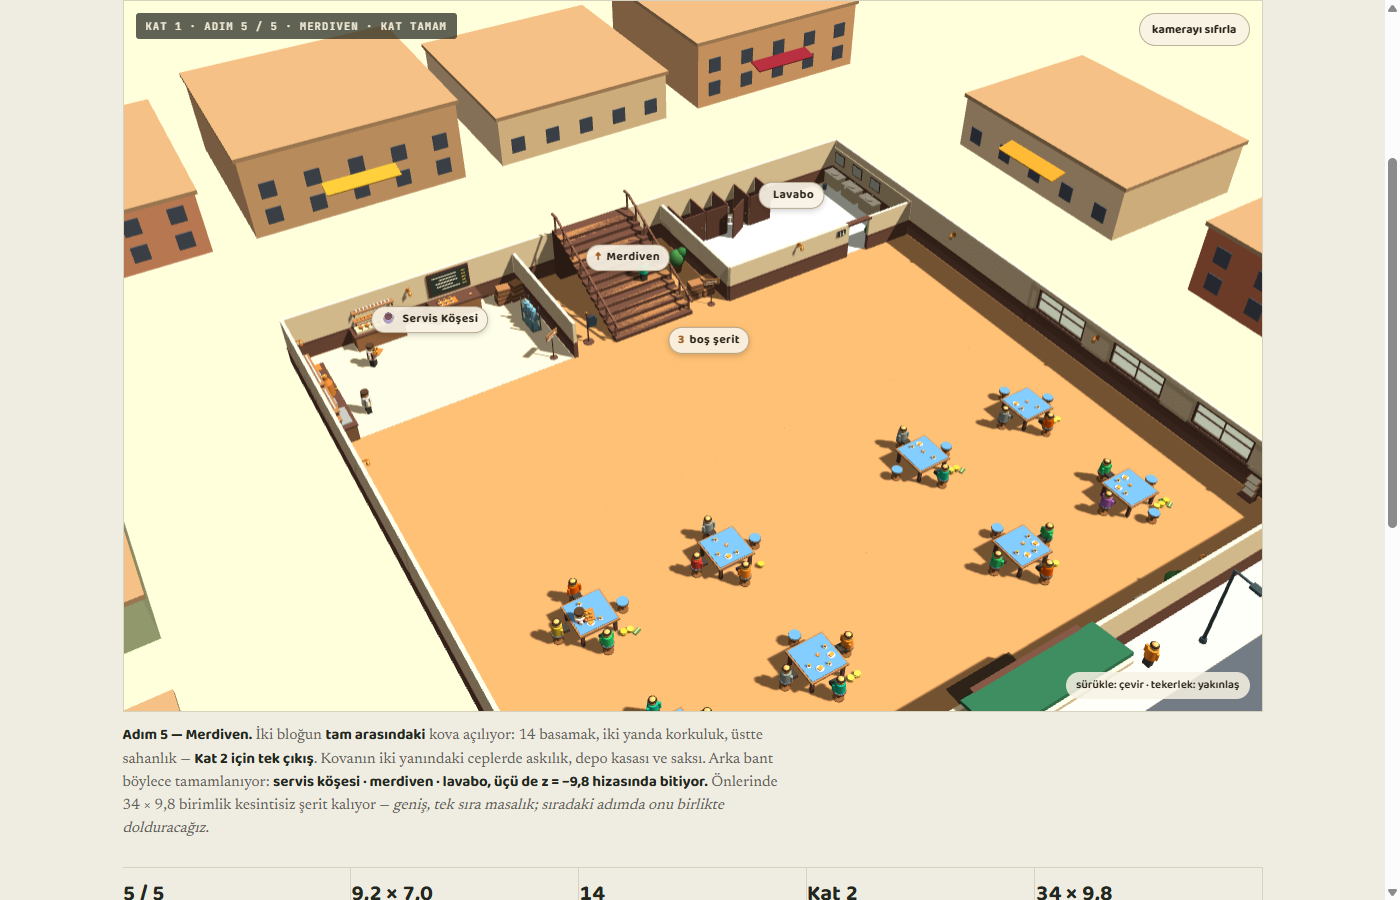
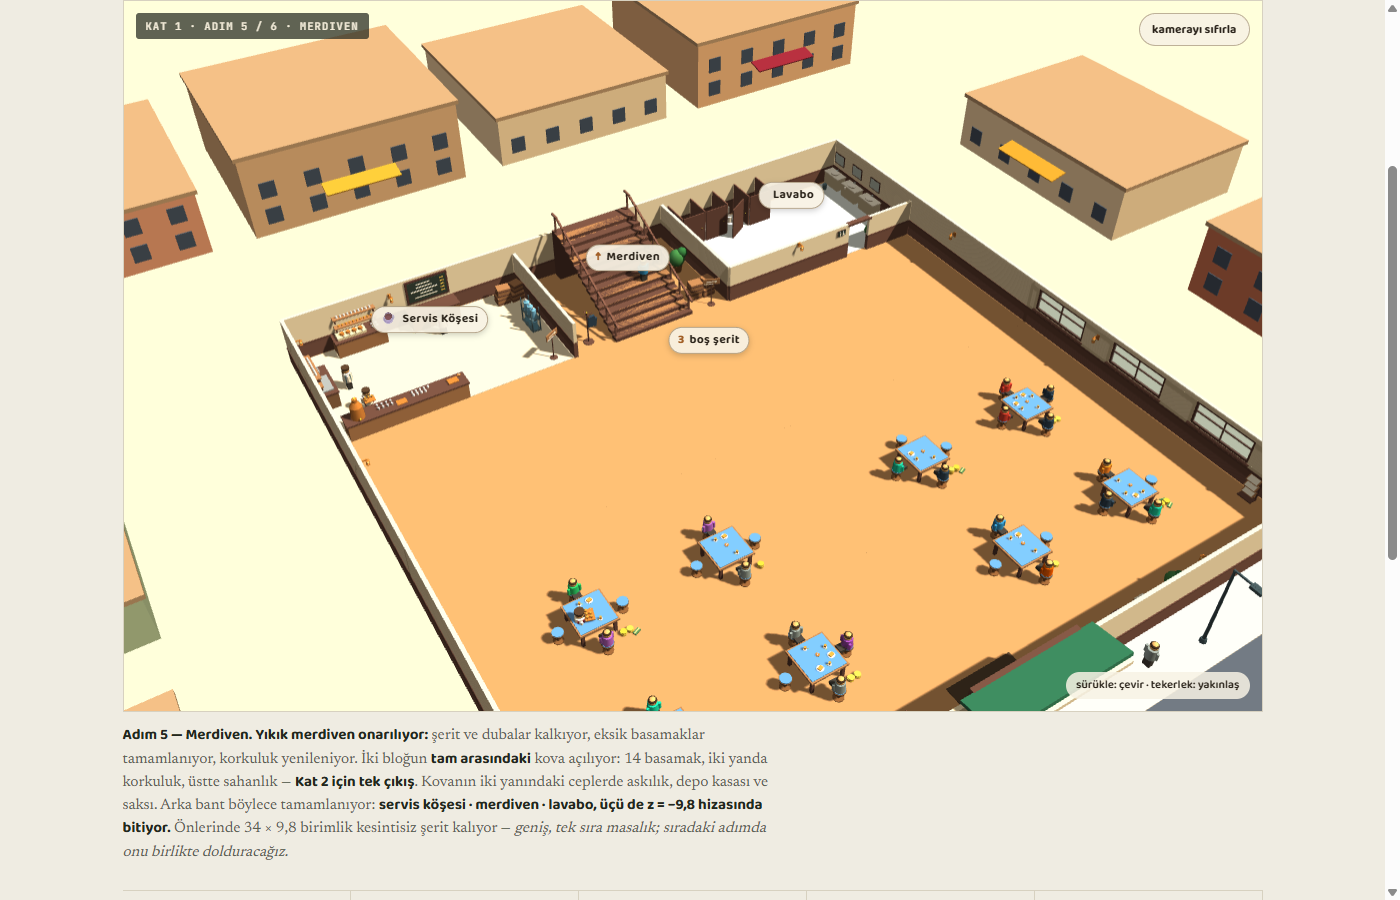
Maket v13: merdiven perdesiz, yikik halde + uyari seridi
Kullanici: "merdiven merdiven haliyle yikik dokuk dursun ve onunde de serit
olsun, bu sekilde yeni bir oda izlenimi oluyor o da hos degil."

- Merdiven kovasindaki tahta perde kaldirildi. Yerine merdivenin kendisi yikik
  halde duruyor: 4 basamakta tahta yok, birkacinda yarim, korkuluktan uc dikme
  kalmis, basamaklarda moloz, yana dusmus kalas ve kova.
- Onunde uyariSeridi(): iki dikme arasinda gerili iki sira sari-siyah bant +
  uc duba + yonlendirme levhasi.
- Lavabo kosesi perdeli kaldi (orada gercekten oda insa ediliyor).
- D-033 uc hale ayrildi: kilitli ALAN cizilmez / kilitli ODA perdeli /
  kilitli YAPI perdesiz yikik + serit.

Claude-Session: https://claude.ai/code/session_01XcKq8GTjdPZkrEsiCbXGAL

diff --git a/docs/maket/maket-v13.html b/docs/maket/maket-v13.html
@@ -1217,6 +1217,57 @@
     return g;
   }
 
+  // uyari seridi: iki dikme arasinda gerili sari-siyah bant (tahta perde DEGIL — arkasi gorunur kalir)
+  function uyariSeridi(x1, x2, z) {
+    var g = new T.Group(), len = x2 - x1, i;
+    [x1, x2].forEach(function (x) {
+      put(g, cyl(0.22, 0.26, 0.06, 8, 0x37474f), x, 0.03, z);
+      put(g, cyl(0.05, 0.05, 1.05, 6, 0x37474f), x, 0.53, z);
+      put(g, sph(0.06, 0xe0b13a), x, 1.08, z);
+    });
+    var n = Math.round(len / 0.5), st = len / n;
+    for (i = 0; i < n; i++) {
+      put(g, box(st - 0.02, 0.13, 0.02, i % 2 ? 0xe0b13a : 0x2f2a24), x1 + st / 2 + i * st, 0.92, z);
+      put(g, box(st - 0.02, 0.13, 0.02, i % 2 ? 0x2f2a24 : 0xe0b13a), x1 + st / 2 + i * st, 0.58, z);
+    }
+    return g;
+  }
+
+  // YIKIK MERDIVEN: merdivenin kendisi duruyor ama harap — basamak tahtalari yer yer eksik,
+  // korkuluk kirik, basamaklarda moloz. Tahta perde YOK: ust kat oldugu gorunsun diye.
+  function merdivenHarap() {
+    var g = new T.Group(), w = 4.6, n = STEP_N, sh = 2.9 / n, i;
+    var eksik = [2, 5, 9, 12];
+    for (i = 0; i < n; i++) {
+      put(g, box(w, sh, STEP_D, 0x6d6155, true), 0, sh / 2 + i * sh, -STEP_D / 2 - i * STEP_D);
+      if (eksik.indexOf(i) < 0) {
+        var kirik = i % 4 === 1;
+        put(g, box(w - (kirik ? 1.4 : 0), 0.035, STEP_D, 0x8a7b68, true),
+          kirik ? 0.7 : 0, (i + 1) * sh - 0.0175, -STEP_D / 2 - i * STEP_D);
+      }
+    }
+    var L = n * STEP_D;
+    put(g, box(w, 2.9, 0.6, 0x6d6155, true), 0, 1.45, -L - 0.3);
+    put(g, box(w, 0.035, 0.6, 0x8a7b68, true), 0, 2.9 - 0.0175, -L - 0.3);
+    [-1, 1].forEach(function (sgn) {                       // kirik korkuluk: birkac dikme kalmis
+      var x = sgn * (w / 2 - 0.1);
+      [0, 4, 11].forEach(function (k) {
+        put(g, box(0.08, 1.0, 0.08, 0x6b5442), x, (k + 1) * sh + 0.5, -STEP_D / 2 - k * STEP_D);
+      });
+    });
+    var hr = put(g, box(0.1, 0.09, 3.2, 0x6b5442), -(w / 2 - 0.1), 1.35, -1.3);
+    hr.rotation.x = Math.atan2(2.9, L);
+    for (i = 0; i < 11; i++) {                             // basamaklarda moloz
+      var st = Math.floor(rnd(0, n));
+      put(g, box(rnd(0.14, 0.3), 0.06, rnd(0.12, 0.22), i % 2 ? 0xcfd8dc : 0xb0bec5),
+        rnd(-1.9, 1.9), (st + 1) * sh + 0.04, -STEP_D / 2 - st * STEP_D).rotation.y = rnd(0, 3);
+    }
+    var kalas = put(g, box(0.3, 0.07, 3.0, 0x8a7b68, true), -1.5, 0.42, -1.5);
+    kalas.rotation.x = Math.atan2(2.9, L);
+    put(g, cyl(0.2, 0.16, 0.32, 8, 0x546e7a, true), 1.7, 0.16, -0.5);
+    return g;
+  }
+
   // BANKET ADASI — kafenin duvarsiz banketi: sirt sirta iki yuzlu oturma banki,
   // ortada ortak sirtlik, iki yanda oturak + minder + yastiklar. Oturak yuzeyi y = 0,54 (tabure ile ayni).
   function banketIsland(len) {
@@ -1657,18 +1708,16 @@
 
     /* >>> TADİLAT — lavabo satın alınana kadar arka-sağ köşe tahta perdeyle kapalı.
        Kural: kilitli ALAN hiç çizilmez; açık alanın içindeki kilitli OBJE tadilatta durur. <<< */
+    /* Merdiven satın alınana kadar: merdivenin KENDİSİ duruyor ama yıkık — perde çekilmiyor,
+       çünkü perde orayı yeni bir oda gibi gösteriyor. Üst kat olduğu görünsün diye açık kalıyor. */
     if (s < 5) {
       g = ST(3);
-      // merdiven kovası: yukarı yükselen iskele + levha — "burada bir üst kat var" sinyali
-      g.add(tadilatPerde(-4.6, 4.6, -9.8));
-      put(g, iskele(4.0), -2.0, 0, -12.6);
-      put(g, iskele(4.0), 2.0, 0, -15.4);
-      put(g, moloz(), 0.4, 0, -12.0);
-      put(g, duba(), -3.6, 0, -8.9);
-      put(g, duba(), 0.2, 0, -8.7);
-      put(g, duba(), 3.6, 0, -8.9);
-      put(g, box(3.0, 0.1, 0.12, 0xe0b13a), -1.8, 0.72, -8.8);
-      put(g, signPost(), 4.0, 0, -8.6, 0.4);
+      put(g, merdivenHarap(), 0, 0, -9.8);
+      g.add(uyariSeridi(-4.2, 4.2, -9.4));
+      put(g, duba(), -3.2, 0, -8.8);
+      put(g, duba(), 0, 0, -8.6);
+      put(g, duba(), 3.2, 0, -8.8);
+      put(g, signPost(), 4.2, 0, -8.4, 0.4);
     }
     if (s === 3) {
       g = ST(3);
@@ -2164,8 +2213,8 @@
       { n: '3. Alan', badge: 'kat 1 · adım 3 / 6 · arka yarı + tezgâh',
         d: 60, a: -0.58, e: 0.72, t: [-4.0, 0.5, -4.0], rooms: [8, 1, 2],
         stats: [['3 / 6', 'adım'], ['34 × 34', 'kat'], ['9,0', 'tezgâh boyu'], ['8', 'masa'], ['3', 'personel']],
-        labels: [[-8.5, 8.6, '1', '1. Alan'], [8.5, 8.6, '2', '2. Alan'], [-13.0, -10.4, '☕', 'Tezgâh'], [10.8, -9.2, '⚠', 'Tadilat'], [0, -9.2, '⚠', 'Tadilat'], [-2.0, -4.0, '3', 'boş şerit']],
-        cap: '<b>Adım 3 — Arka yarı açılıyor, servis bloğu ve tezgâh kuruluyor.</b> 34 × 17 birimlik alan tek hamlede geliyor. Arka duvarın sol ucunda 12,2 × 7,0 bir servis bloğu doğuyor ve <b>salona bakan yüzü tezgâh</b>: semaver, temiz bardak istifleri ve hazır tepsiler müşterinin gördüğü yerde; hazırlık arkada — arka duvarda cezve ocağı, hazırlık tezgâhı ve menü tahtası, sol duvarda bulaşık. Tezgâhın ortasında <b>2 birimlik geçit</b>, personel ve oyuncu oradan giriyor. <em>Kafe mantığı: tezgâh mekânın yüzüdür, mutfak arkasında kalır.</em> Arka bandın <b>iki bölmesi tahta perdeyle kapalı</b>: sağ köşe (lavabo) ve orta kova (merdiven). İçeride iskele, moloz, kalaslar; merdiven kovasında iskele yukarı yükseliyor — <em>oyuncu daha ilk günden üst kat olduğunu görüyor.</em>' },
+        labels: [[-8.5, 8.6, '1', '1. Alan'], [8.5, 8.6, '2', '2. Alan'], [-13.0, -10.4, '☕', 'Tezgâh'], [10.8, -9.2, '⚠', 'Tadilat'], [0, -9.0, '↑', 'Yıkık Merdiven'], [-2.0, -4.0, '3', 'boş şerit']],
+        cap: '<b>Adım 3 — Arka yarı açılıyor, servis bloğu ve tezgâh kuruluyor.</b> 34 × 17 birimlik alan tek hamlede geliyor. Arka duvarın sol ucunda 12,2 × 7,0 bir servis bloğu doğuyor ve <b>salona bakan yüzü tezgâh</b>: semaver, temiz bardak istifleri ve hazır tepsiler müşterinin gördüğü yerde; hazırlık arkada — arka duvarda cezve ocağı, hazırlık tezgâhı ve menü tahtası, sol duvarda bulaşık. Tezgâhın ortasında <b>2 birimlik geçit</b>, personel ve oyuncu oradan giriyor. <em>Kafe mantığı: tezgâh mekânın yüzüdür, mutfak arkasında kalır.</em> Arka-sağ köşe (lavabo) <b>tahta perdeyle kapalı</b> — orada gerçekten bir oda inşa ediliyor. Ortadaki <b>merdiven ise açıkta duruyor, sadece yıkık</b>: basamak tahtaları yer yer eksik, korkuluk kırık, basamaklarda moloz; önünde uyarı şeridi ve dubalar. Perde çekilmedi — <em>oyuncu daha ilk günden üst kat olduğunu görsün diye.</em>' },
       { n: 'Lavabo', badge: 'kat 1 · adım 4 / 6 · lavabo',
         d: 46, a: -0.50, e: 0.62, t: [7.0, 0.8, -8.0], rooms: [8, 6],
         stats: [['4 / 6', 'adım'], ['12,3 × 7,0', 'oda'], ['4', 'kabin'], ['3', 'lavabo'], ['arka-sağ', 'blok']],
@@ -2175,7 +2224,7 @@
         d: 58, a: -0.55, e: 0.70, t: [0, 0.8, -6.0], rooms: [8, 6, 7],
         stats: [['5 / 6', 'adım'], ['9,2 × 7,0', 'kova'], ['14', 'basamak'], ['Kat 2', 'açılır'], ['34 × 9,8', 'boş şerit']],
         labels: [[-10.8, -13.0, '☕', 'Servis Köşesi'], [0, -12.5, '↑', 'Merdiven'], [10.8, -13.0, '', 'Lavabo'], [0, -4.5, '3', 'boş şerit']],
-        cap: '<b>Adım 5 — Merdiven.</b> <b>Kovadaki tahta perde kalkıyor.</b> İki bloğun <b>tam arasındaki</b> kova açılıyor: 14 basamak, iki yanda korkuluk, üstte sahanlık — <b>Kat 2 için tek çıkış</b>. Kovanın iki yanındaki ceplerde askılık, depo kasası ve saksı. Arka bant böylece tamamlanıyor: <b>servis köşesi · merdiven · lavabo, üçü de z = −9,8 hizasında bitiyor.</b> Önlerinde 34 × 9,8 birimlik kesintisiz şerit kalıyor — <em>geniş, tek sıra masalık; sıradaki adımda onu birlikte dolduracağız.</em>' },
+        cap: '<b>Adım 5 — Merdiven.</b> <b>Yıkık merdiven onarılıyor:</b> şerit ve dubalar kalkıyor, eksik basamaklar tamamlanıyor, korkuluk yenileniyor. İki bloğun <b>tam arasındaki</b> kova açılıyor: 14 basamak, iki yanda korkuluk, üstte sahanlık — <b>Kat 2 için tek çıkış</b>. Kovanın iki yanındaki ceplerde askılık, depo kasası ve saksı. Arka bant böylece tamamlanıyor: <b>servis köşesi · merdiven · lavabo, üçü de z = −9,8 hizasında bitiyor.</b> Önlerinde 34 × 9,8 birimlik kesintisiz şerit kalıyor — <em>geniş, tek sıra masalık; sıradaki adımda onu birlikte dolduracağız.</em>' },
       { n: 'Orta Şerit', badge: 'kat 1 · adım 6 / 6 · orta şerit · kat tamam',
         d: 62, a: -0.56, e: 0.70, t: [0, 0.7, -3.0], rooms: [8, 9, 1, 2],
         stats: [['6 / 6', 'adım'], ['12', 'ikili masa'], ['2', 'banket adası'], ['+24', 'koltuk'], ['ön masalarla', 'aynı sütun']],

diff --git a/memory-bank/decisions.md b/memory-bank/decisions.md
@@ -550,7 +550,16 @@ Kilitli alanı göstermek "boş oda satın aldım" hissi verir; açık alandaki 
 sahte gösterir. Tadilat hâli hem sebebi anlatır hem satın alma isteğini doğurur.
 **İlk uygulama:** Kat 1 adım 3 — lavabo köşesi perdeli; adım 4'te perde kalkıyor.
 `tadilatPerde()`, `duba()`, `iskele()`, `moloz()` (docs/maket/maket-v13.html).
-**Açık uç:** aynı muamele merdiven kovasına da uygulansın mı — kullanıcıya soruldu.
+**İki ayrı hâl var (2026-09-05 düzeltmesi):**
+- **Kapalı hacim inşa ediliyorsa** (lavabo gibi bir oda) → tahta perde + uyarı bandı + dubalar,
+  arkasında iskele ve moloz. Arkası görünmez, çünkü orada gerçekten bir oda kuruluyor.
+- **Var olan bir yapı onarılacaksa** (merdiven gibi) → **perde YOK**, obje kendisi yıkık hâlde
+  görünür durur: basamak tahtaları eksik, korkuluk kırık, üstünde moloz; önüne yalnız
+  **uyarı şeridi** (iki dikme arasında sarı-siyah bant) ve dubalar konur.
+  Kullanıcı: *"merdiven merdiven hâliyle yıkık dökük dursun ve önünde de şerit olsun,
+  bu şekilde yeni bir oda izlenimi oluyor o da hoş değil."* Ayrıca oyuncu ilk günden
+  üst kat olduğunu görmeli — perde bu bilgiyi saklıyordu.
+**Fonksiyonlar:** `tadilatPerde()` `duba()` `iskele()` `moloz()` `uyariSeridi()` `merdivenHarap()`.
 
 ## D-034 — Kat 1 mobilya ızgarası (2026-09-05)
 **Karar:** Kat 1'in bütün oturma grupları tek ızgarada: sütunlar x = ∓5,3 · ∓8,5 · ∓11,7 (3,2 aralık),
